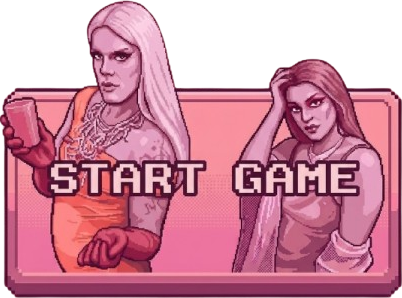
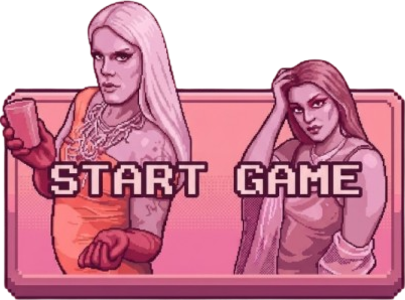
feature: Main Menu and Character Select added

diff --git a/src/pacman/app/actions.py b/src/pacman/app/actions.py
@@ -5,6 +5,8 @@ from enum import Enum, auto
 from typing import Final
 from types import TracebackType
 import pygame as pg
+import time
+import os
 
 
 class MainMenuAction(Enum):
@@ -17,39 +19,200 @@ class MainMenuAction(Enum):
     EXIT = auto()
 
 
-class UI:
-    """Main Page for UI"""
-    HOT_PINK: Final = (248, 74, 204)
-    IMAGES: Final = 'src/pacman/app/images'
-    START_GAME_POS: Final = (50, 50)
-    START_GAME_HOVER_POS: Final = (15, 20)
+"""NOTE DELETE LATER:
+UNHOVERED HEIGHT: 300
+UNHOVERED WIDTH: 405
+HOVERED HEIGTH: 350
+HOVERED WIDTH: 470
+"""
 
-    def __init__(self):
-        self.screen: pg.Surface = pg.display.set_mode(flags=pg.FULLSCREEN)
-        self.running: bool = True
-        self.start_game: pg.Surface = (
+
+class Button:
+    """Button class generates button objects, like Start Game."""
+    IMAGES: Final = 'src/pacman/app/images'
+
+    def __init__(self,
+                 path: str,
+                 hover_path: str,
+                 pos: tuple[int, int] = (0, 0),
+                 hover_offset: tuple[int, int] = (45, 30)) -> None:
+        """Initialize a Button object.
+
+        Args:
+            path (str): file path to the image.
+            hover_path (str): file path to the alternative for hoverring.
+            pos (tuple[int, int]): position of the image in x, y.
+        """
+        self.button: pg.Surface = (
             pg.image
-              .load(f'{self.IMAGES}/start-game.png')
+              .load(f'{self.IMAGES}/{path}')
               .convert_alpha()
               )
-        self.start_game_hover: pg.Surface = (
+        self.hover_button: pg.Surface = (
             pg.image
-            .load(f'{self.IMAGES}/start-game-hover.png')
-            .convert_alpha()
+              .load(f'{self.IMAGES}/{hover_path}')
+              .convert_alpha()
+              )
+        self.pos: tuple[int, int] = pos
+        self.x, self.y = self.pos
+        self.width, self.height = (self.button.get_width(),
+                                   self.button.get_height())
+        self.clicked: bool = False
+        self.hover_offset: tuple[int, int] = hover_offset
+
+    @property
+    def hover_pos(self) -> tuple[int, int]:
+        return (self.pos[0] - self.hover_offset[0],
+                self.pos[1] - self.hover_offset[1])
+
+    def render_button(self, screen: pg.Surface) -> None:
+        """Render a button in a pre-made screen.
+
+        Args:
+            screen (pg.Surface): screen created by pygame.
+        """
+        screen.blit(self.button, self.pos)
+
+    def render_hover_button(self, screen: pg.Surface) -> None:
+        """Render a button in a pre-made screen for
+            when the mouse hovers on it.
+
+        Args:
+            screen (pg.Surface): screen created by pygame.
+        """
+        screen.blit(self.hover_button, self.hover_pos)
+
+    def hovering(self, mx: int, my: int) -> bool:
+        """Find if the mouse is hovering on a button.
+
+        Args:
+            mx (int): x position of the mouse
+            my (int): y position of the mouse
+
+        Returns:
+            bool: True if the mouse is hovering the button.
+        """
+        return (self.pos[0] <= mx <= self.width + self.pos[0]
+                and self.pos[1] <= my <= self.height + self.pos[1])
+
+
+class UI:
+    """Main Page for UI"""
+
+    def __init__(self) -> None:
+        """Initialize a UI object."""
+        self.screen: pg.Surface = pg.display.set_mode(flags=pg.FULLSCREEN)
+        self.running: bool = True
+
+        button_r: int = self.screen.get_width() // 2 + 25
+        button_l: int = self.screen.get_width() // 2 - 430
+        height: int = 400
+        # Start Game settings
+        self.start_game: Button = Button('start-game.png',
+                                         'start-game-hover.png',
+                                         pos=(button_l - 450, height))
+
+        # High Scores settings
+        self.high_scores: Button = Button('high-scores.png',
+                                          'high-scores-hover.png',
+                                          pos=(button_l, height))
+
+        # Instructions settings
+        self.instr: Button = Button('instructions.png',
+                                    'instructions-hover.png',
+                                    pos=(button_r, height))
+
+        # Exit settings
+        self.exit: Button = Button('sashay-away.png',
+                                   'sashay-away-hover.png',
+                                   pos=(button_r + 450, height))
+
+        self.BUTTONS: Final = [self.start_game,
+                               self.high_scores,
+                               self.instr,
+                               self.exit]
+
+        # Title settings
+        self.title: list[pg.Surface] = [(
+            pg.image
+              .load(f'{self.exit.IMAGES}/title_{i}.png')
+              .convert_alpha()
+              ) for i in range(1, 6)]
+        title_width: int = int(
+            self.screen.get_width() / 2 - self.title[0].get_width() / 2
             )
-        self.start_x: int = self.START_GAME_POS[0]
-        self.start_y: int = self.START_GAME_POS[1]
-        self.start_width: int = self.start_game.get_width()
-        self.start_height: int = self.start_game.get_height()
-        self.start_game_clicked: bool = False
+        self.title_pos: tuple[int, int] = (title_width, 100)
+
+        # Background
+        path: str = './src/pacman/app/images/bg-frames'
+        dir_list: list[str] = sorted(
+            os.listdir(path),
+            key=lambda x: int(x[x.find('_') + 1:x.find('.')])
+            )
+        self.bg: list[pg.Surface] = [pg.image.load(f'{path}/{frame}').convert()
+                                     for frame in dir_list]
+        bg_x: int = int(
+            self.screen.get_width() / 2 - self.bg[0].get_width() / 2
+            )
+        bg_y: int = int(
+            self.screen.get_height() / 2 - self.bg[0].get_height() / 2
+            )
+        self.bg_pos: tuple[int, int] = (bg_x, bg_y)
+
+        # Character Selection screen settings
+        self.queen_1: Button = Button('queen-1.png',
+                                      'queen-1-hover.png')
+        x: int = int(
+            self.screen.get_width() / 4 - self.queen_1.button.get_width() / 2
+            )
+        y: int = 200
+        self.queen_1.pos = (x, y)
+        self.queen_2: Button = Button('queen-2.png',
+                                      'queen-2-hover.png',
+                                      hover_offset=(10, 30))
+        x = int(
+            self.screen.get_width() / 4 * 3
+            - self.queen_2.button.get_width() / 2
+            )
+        y = (self.queen_1.button.get_height() -
+             self.queen_2.button.get_height() + 201)
+        self.queen_2.pos = (x, y)
+        self.QUEENS: Final = [self.queen_1, self.queen_2]
+
+        # Choose your diva and Queen Names
+        self.choose: pg.Surface = (
+            pg.image
+              .load(f'{self.exit.IMAGES}/select-your-diva.png')
+              .convert_alpha()
+              )
+        self.waka: pg.Surface = (
+            pg.image
+              .load(f'{self.exit.IMAGES}/waka-waka-wanda.png')
+              .convert_alpha()
+              ) 
+        self.ms_pellet: pg.Surface = (
+            pg.image
+              .load(f'{self.exit.IMAGES}/ms-power-pellet.png')
+              .convert_alpha()
+              )
+        choose_width: int = int(
+            self.screen.get_width() / 2 - self.choose.get_width() / 2
+            )
+        self.choose_pos: tuple[int, int] = (choose_width, 100)
+        waka_width: int = self.queen_1.pos[0] + self.queen_1.width + 10
+        self.waka_pos: tuple[int, int] = (waka_width,
+                                          self.queen_1.pos[1] + 250)
+        ms_pellet_width: int = (self.queen_2.pos[0]
+                                - self.ms_pellet.get_width()) - 10
+        ms_pellet_height: int = self.queen_2.height + self.queen_2.pos[1] - 75
+        self.ms_pellet_pos: tuple[int, int] = (ms_pellet_width,
+                                               ms_pellet_height)
 
     def render_main_menu(self) -> None:
         """Render main menu"""
+        start_time: float = time.time() * 1000
         while self.running:
             mx, my = pg.mouse.get_pos()
-            hovering_on_start_game: bool = (
-                self.start_x <= mx <= self.start_width + self.start_x
-                and self.start_y <= my <= self.start_height + self.start_y)
 
             # tracking events such as quitting the program
             for event in pg.event.get():
@@ -60,23 +223,62 @@ class UI:
                     if event.key == pg.K_ESCAPE:
                         self.running = False
 
-                if event.type == pg.MOUSEBUTTONDOWN and hovering_on_start_game:
-                    self.start_game_clicked = True
+            now: float = time.time() * 1000
+            bg_frame: int = (int(now - start_time) // 100) % len(self.bg)
+            self.screen.blit(self.bg[bg_frame], self.bg_pos)
 
-            self.screen.fill(self.HOT_PINK)
+            if not self.start_game.clicked:
+                title_frame: int = (
+                    (int(now - start_time) // 125)
+                    % len(self.title)
+                    )
+                self.screen.blit(self.title[title_frame],
+                                 self.title_pos)
 
-            # render buttons
-            if hovering_on_start_game:
-                self.screen.blit(self.start_game_hover,
-                                 self.START_GAME_HOVER_POS)
+                # render buttons
+                for button in self.BUTTONS:
+                    if button.hovering(mx, my):
+                        button.render_hover_button(self.screen)
+                    else:
+                        button.render_button(self.screen)
+
+                for event in pg.event.get():
+                    for button in self.BUTTONS:
+                        if (event.type == pg.MOUSEBUTTONDOWN
+                           and button.hovering(mx, my)):
+                            button.clicked = True
+                            if button == self.exit:
+                                self.running = False
             else:
-                self.screen.blit(self.start_game, self.START_GAME_POS)
+                for queen in self.QUEENS:
+                    if queen.hovering(mx, my):
+                        queen.render_hover_button(self.screen)
+                    else:
+                        queen.render_button(self.screen)
+                    self.screen.blit(self.choose, self.choose_pos)
+                    self.screen.blit(self.waka, self.waka_pos)
+                    self.screen.blit(self.ms_pellet, self.ms_pellet_pos)
+
+                for event in pg.event.get():
+                    for queen in self.QUEENS:
+                        if (event.type == pg.MOUSEBUTTONDOWN
+                           and queen.hovering(mx, my)):
+                            queen.clicked = True
+
             pg.display.flip()
 
     def _test_actions(self) -> None:
         """Test actions until there is proper actions in-place."""
-        print("Game started." if self.start_game_clicked
+        print("Game started." if self.start_game.clicked
               else "Game not started.")
+        print("High Scores clicked." if self.start_game.clicked
+              else "High Scores not clicked.")
+        print("Instructions were shown." if self.instr.clicked
+              else "Instructions were not shown.")
+        print("Waka Waka Wanda was chosen." if self.queen_1.clicked
+              else "Waka Waka Wanda wasn't chosen.")
+        print("Ms. Power Pellet was chosen." if self.queen_2.clicked
+              else "Ms. Power Pellet wasn't chosen.")
 
     def __enter__(self) -> 'UI':
         """Dunder method for context managers.

diff --git a/rename_files.py b/rename_files.py
@@ -1,0 +1,11 @@
+#!/usr/bin/env python3
+
+import os
+
+path = './src/pacman/app/images/bg-frames'
+dir_list = sorted(os.listdir(path))
+
+for i, file in enumerate(dir_list):
+    # print(file[file.find('_') + 1:file.find('.')])
+    print(f'{i}: {file} | Is correct order? {int(file[6:9]) == i}')
+    os.rename(f'{path}/{file}', f'{path}/frame_{i}.gif')
